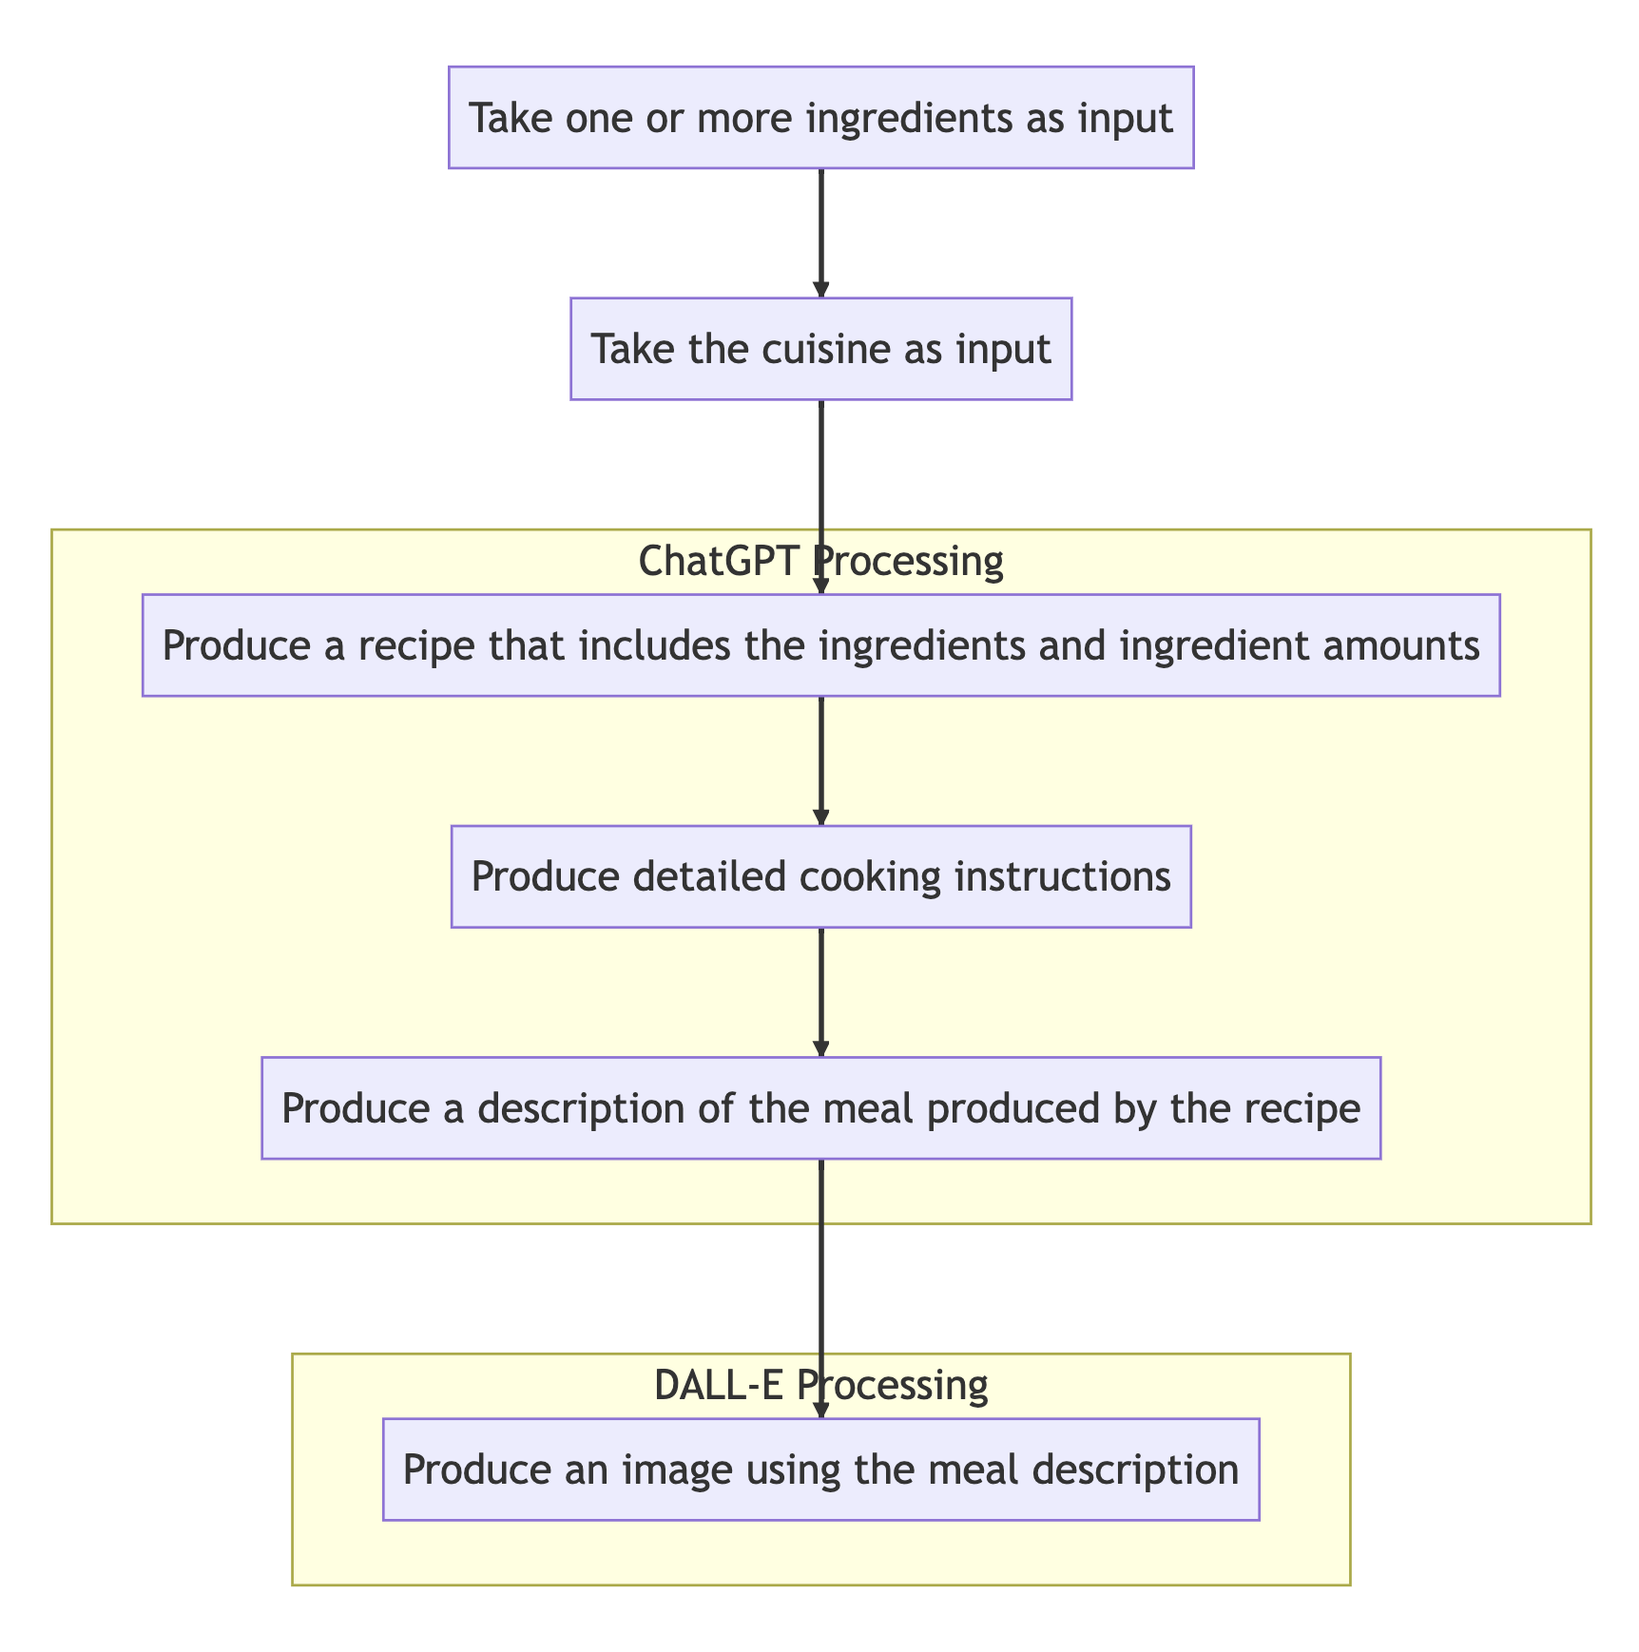
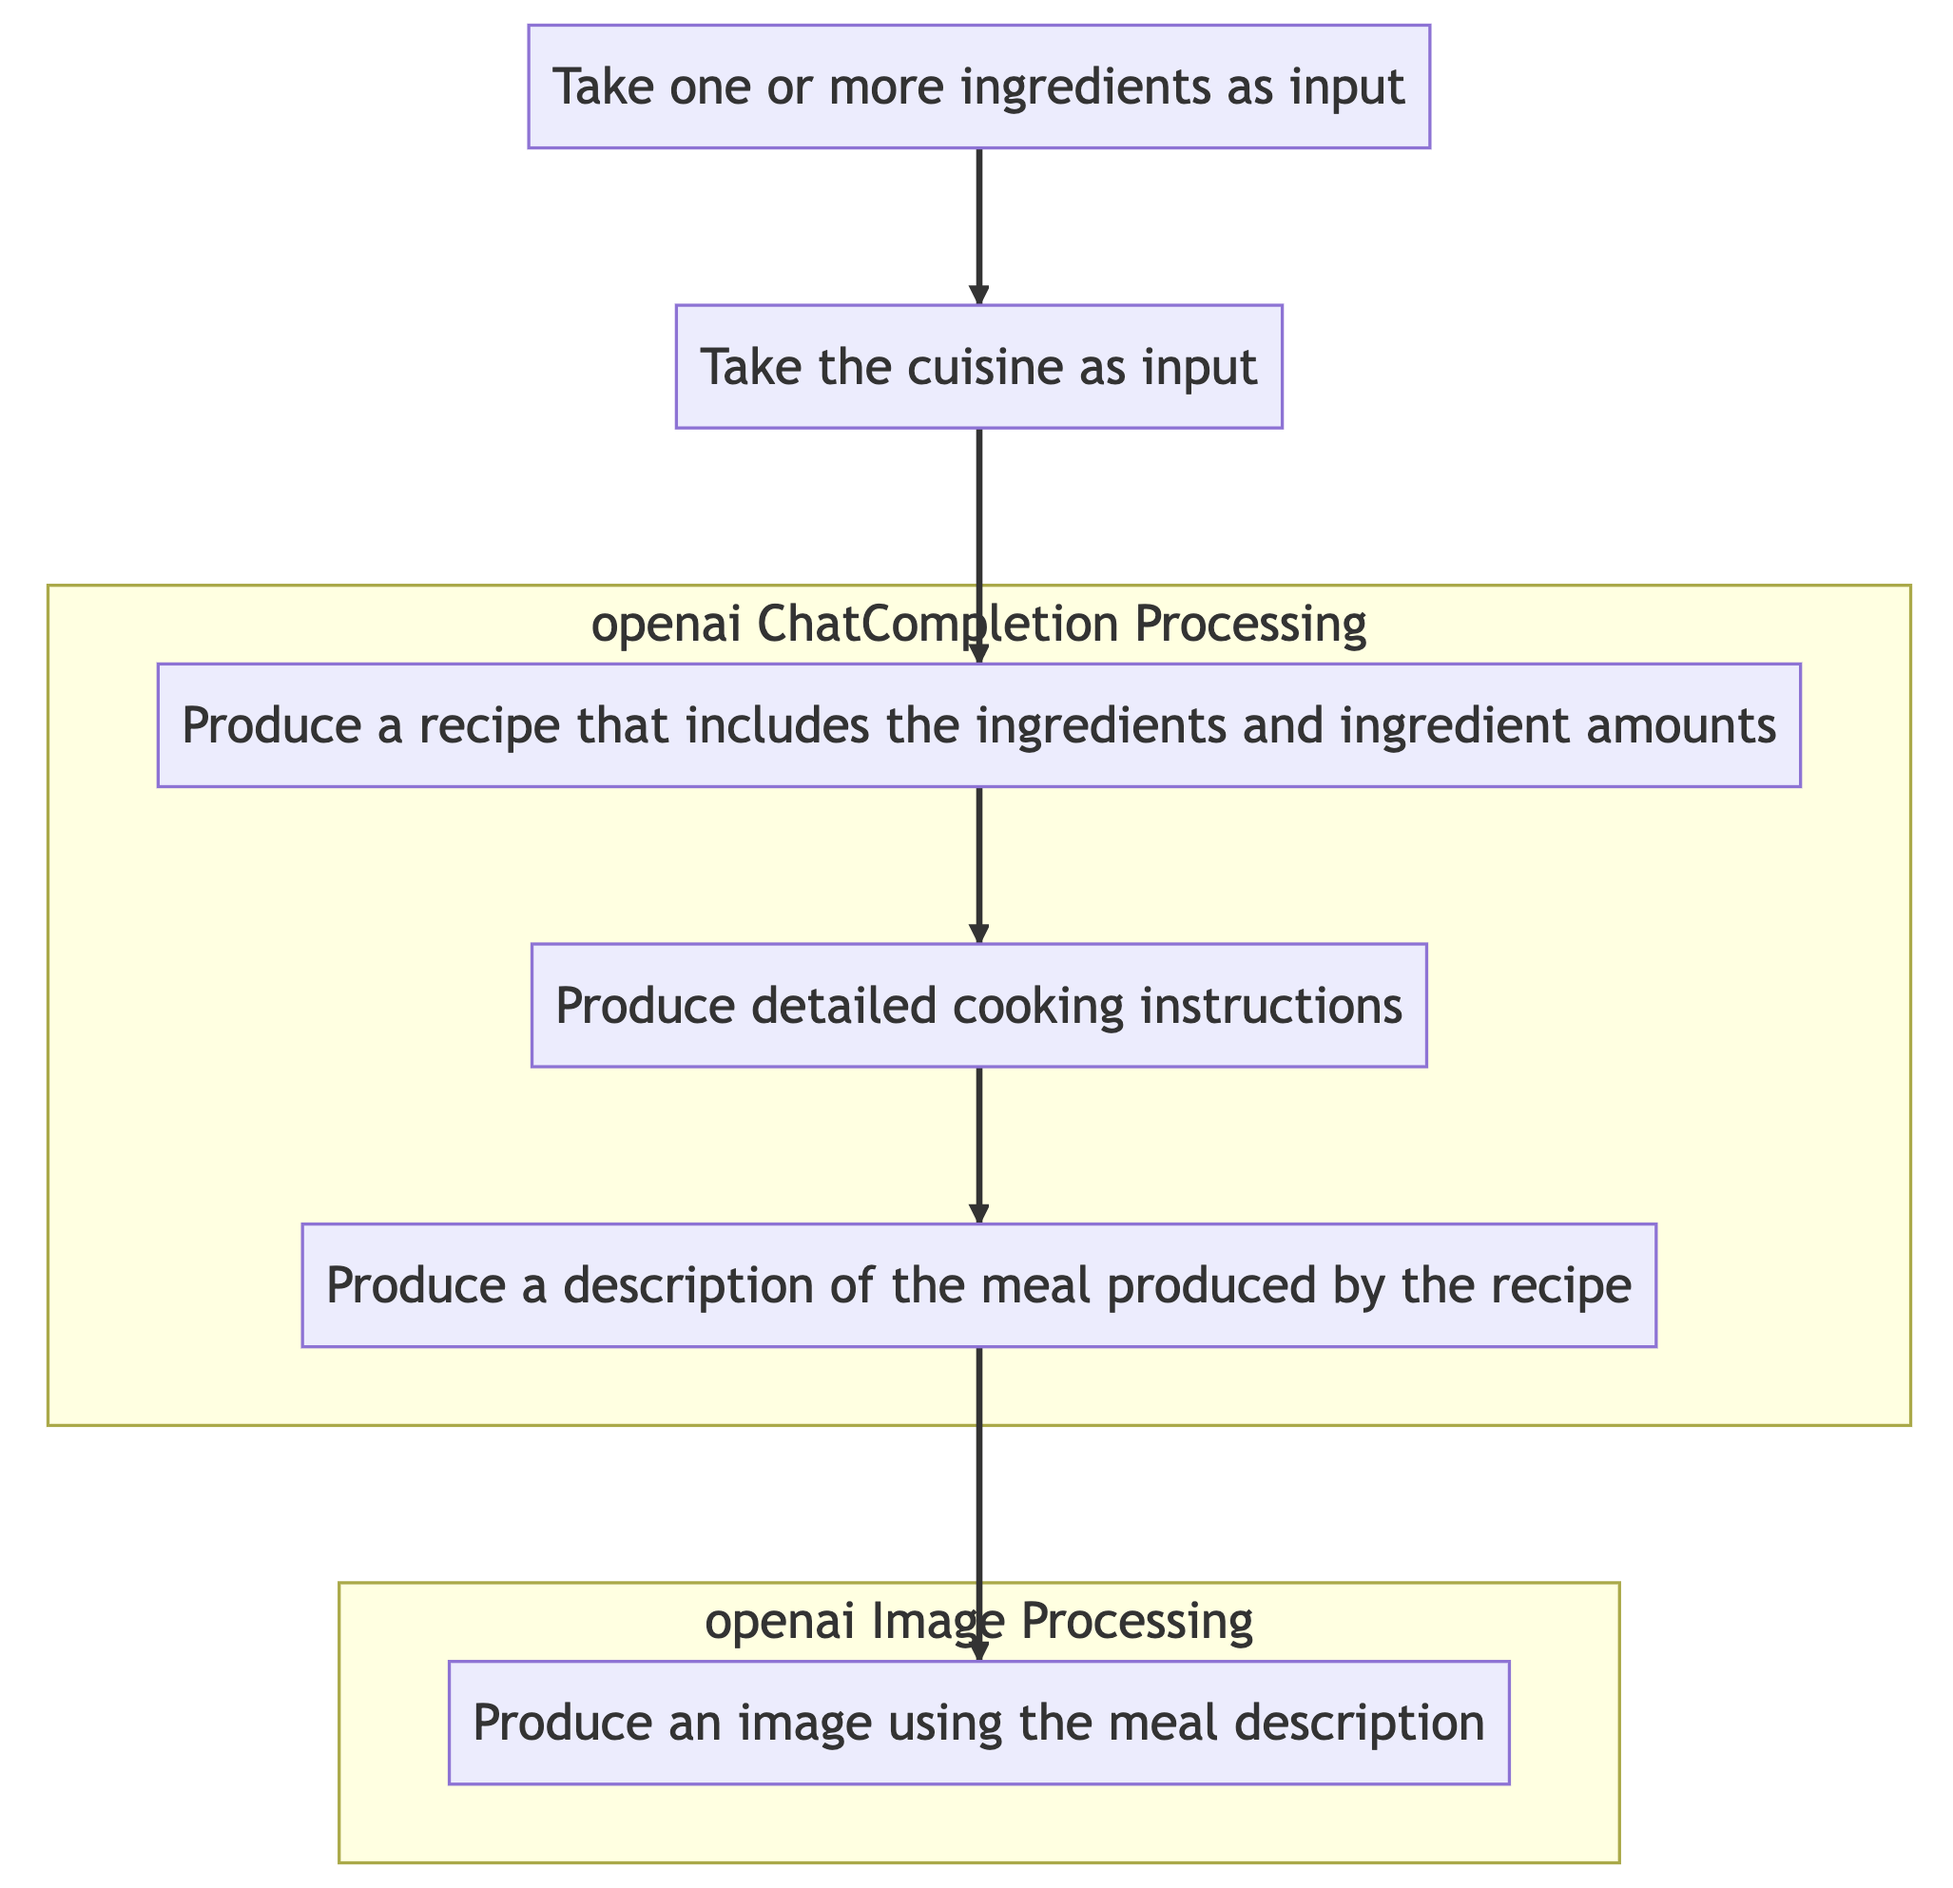
update

diff --git a/pipeline/pipeline.py b/pipeline/pipeline.py
@@ -9,8 +9,8 @@ SYSTEM_INPUT = '''
 You are an expert in cooking and cuisine. You are instructed to do the following:
 
 1. Take one or more ingredients as input.
-2. Take the cuisine as input.
-3. Produce a recipe that includes the ingredients and ingredient amounts.
+2. Take a cuisine as input.
+3. Produce a recipe for that cuisine that includes the ingredients and ingredient amounts.
 4. Produce detailed cooking instructions.
 5. Produce a description of the meal produced by the recipe.
 '''
